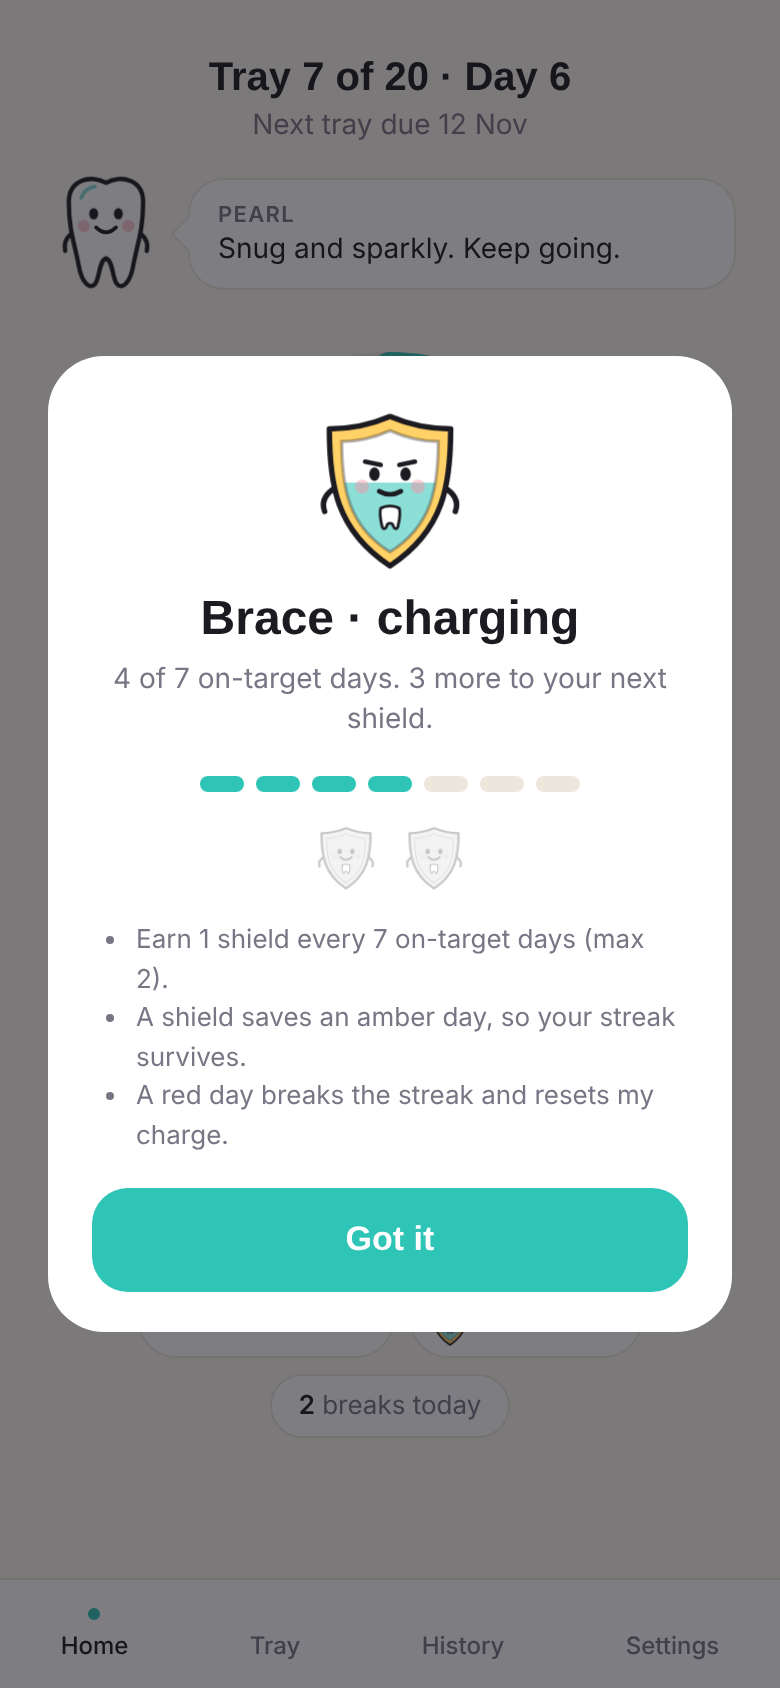
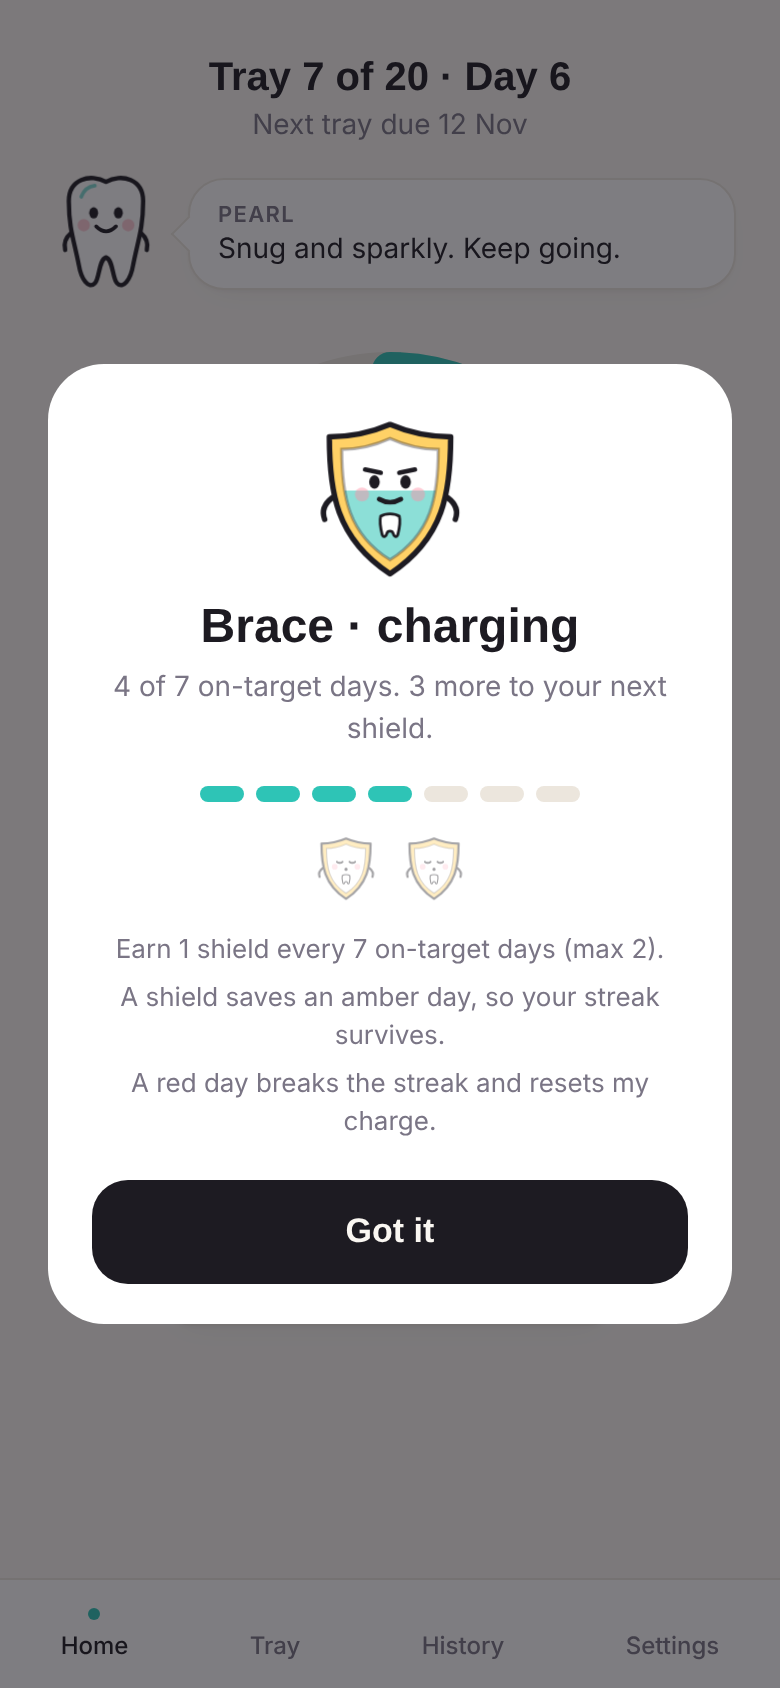
UI polish: calmer, more premium look (v1.2)
- History heatmap uses soft tints instead of solid traffic-light fills
- Home: one status pill (streak + Brace); breaks folded into the budget line
- Custom flame icon in the mascots' line style replaces the emoji
- Smaller hero button with a soft halo instead of a heavy glow
- Mint reserved for progress; primary buttons use ink, grade bars neutral
- Dark mode: borderless cards with subtle elevation; more breathing room
- Brace sheet: centred rules, outlined empty shield slots
- README screenshots refreshed

Claude-Session: https://claude.ai/code/session_01UyWaGi1AUHmmiz4DfKTwSH

diff --git a/src/Index.html b/src/Index.html
@@ -11,9 +11,17 @@
     --bg:#FAF7F2; --card:#FFFFFF; --ink:#1D1B22; --muted:#7A7585; --line:#ECE6DD; --soft:#F3EEE6;
     --mint:#2EC4B6; --coral:#FF6B6B; --sunny:#FFD166; --green:#3DDC97; --amber:#FFB547; --red:#FF6B6B;
     --accent:var(--mint);
+    --h-green:rgba(61,220,151,.26); --h-green-ink:#17895a;
+    --h-amber:rgba(255,181,71,.28); --h-amber-ink:#a86a06;
+    --h-red:rgba(255,107,107,.20);  --h-red-ink:#c94444;
+    --edge:var(--line); --lift:0 1px 2px rgba(29,27,34,.04), 0 6px 18px -12px rgba(29,27,34,.12);
   }
   @media (prefers-color-scheme:dark){
-    :root{ --bg:#14121A; --card:#1F1C27; --ink:#F4F1EC; --muted:#9C97A8; --line:#2C2836; --soft:#26222F; }
+    :root{ --bg:#14121A; --card:#1E1B26; --ink:#F4F1EC; --muted:#9C97A8; --line:#2C2836; --soft:#26222F;
+           --h-green:rgba(61,220,151,.20); --h-green-ink:#86e8bd;
+           --h-amber:rgba(255,181,71,.24); --h-amber-ink:#ffd59a;
+           --h-red:rgba(255,107,107,.22);  --h-red-ink:#ffa8a8;
+           --edge:transparent; --lift:0 1px 0 rgba(255,255,255,.03) inset; }
   }
   body.out{ --accent:var(--coral); }
   *{ box-sizing:border-box; margin:0; padding:0; -webkit-tap-highlight-color:transparent; }
@@ -36,20 +44,29 @@
   .prog{ stroke:var(--accent); transition:stroke-dashoffset .9s cubic-bezier(.2,.8,.2,1), stroke .3s; }
   .ring-center{ position:absolute; inset:0; display:flex; flex-direction:column; align-items:center; justify-content:center; text-align:center; padding:0 28px; }
   .big{ font-size:40px; font-weight:600; letter-spacing:-.5px; line-height:1.1; white-space:nowrap; }
-  .pill{ display:block; width:fit-content; margin:10px auto 0; padding:10px 18px; border-radius:999px;
-         background:var(--card); border:1px solid var(--line); font-weight:500; font-size:14px; transition:all .3s; }
+  .pill{ display:block; width:fit-content; margin:10px auto 0; padding:9px 18px; border-radius:999px;
+         background:var(--card); border:1px solid var(--edge); box-shadow:var(--lift); font-weight:500; font-size:14px; transition:all .3s; }
+  .pill .dim{ color:var(--muted); font-weight:400; }
+  .pill.over .dim{ color:rgba(255,255,255,.8); }
   .pill.over{ color:#fff; background:var(--red); border-color:transparent; }
-  .btn-wrap{ display:flex; justify-content:center; margin:28px 0 18px; }
-  .hero{ width:136px; height:136px; border-radius:50%; border:none; background:var(--accent); color:#fff;
-         font-family:Outfit,sans-serif; font-size:20px; font-weight:600; cursor:pointer;
-         box-shadow:0 12px 30px -10px var(--accent); transition:transform .15s ease-out, background .3s; }
+  .btn-wrap{ display:flex; justify-content:center; margin:30px 0 22px; }
+  .hero{ width:120px; height:120px; border-radius:50%; border:none; background:var(--accent); color:#fff;
+         font-family:Outfit,sans-serif; font-size:18px; font-weight:600; letter-spacing:.1px; cursor:pointer;
+         box-shadow:0 0 0 8px color-mix(in srgb, var(--accent) 14%, transparent), 0 10px 22px -14px var(--accent);
+         transition:transform .15s ease-out, background .3s, box-shadow .3s; }
   .hero:active{ transform:scale(.96); }
   .hero:disabled{ opacity:.85; }
-  body.out .hero{ animation:pulse 1.8s ease-in-out infinite; }
-  @keyframes pulse{ 0%,100%{ box-shadow:0 0 0 0 rgba(255,107,107,.45) } 50%{ box-shadow:0 0 0 18px rgba(255,107,107,0) } }
-  .chips{ display:flex; gap:8px; justify-content:center; flex-wrap:wrap; }
-  .chip{ padding:7px 13px; border-radius:999px; background:var(--card); border:1px solid var(--line); font-size:13px; color:var(--muted); }
+  body.out .hero{ animation:pulse 2.4s ease-in-out infinite; }
+  @keyframes pulse{ 0%,100%{ box-shadow:0 0 0 8px rgba(255,107,107,.14) } 50%{ box-shadow:0 0 0 14px rgba(255,107,107,.06) } }
+  .chips{ display:flex; gap:8px; justify-content:center; }
+  .chip{ padding:7px 13px; border-radius:999px; background:var(--card); border:1px solid var(--edge); box-shadow:var(--lift); font-size:13px; color:var(--muted); }
   .chip b{ color:var(--ink); font-weight:600; }
+  .status{ display:inline-flex; align-items:center; gap:7px; padding:5px 14px 5px 10px; cursor:pointer; white-space:nowrap; }
+  .status .ico{ display:inline-flex; align-items:center; gap:5px; }
+  .status svg{ flex:none; }
+  .status .flame{ width:15px; height:18px; }
+  .status .sep{ width:1px; height:16px; background:var(--line); margin:0 2px; }
+  .status .brace-ico svg{ width:20px; height:22px; }
   .sync{ text-align:center; font-size:12px; color:var(--muted); margin-top:12px; min-height:16px; }
 
   /* Mascot */
@@ -67,10 +84,10 @@
   @keyframes float{ 0%{ opacity:0; transform:translate(0,4px) } 40%{ opacity:1 } 100%{ opacity:0; transform:translate(6px,-10px) } }
   .buddy{ display:flex; align-items:center; gap:10px; margin:10px 4px 0; min-height:72px; }
   .buddy .pearl{ width:62px; height:68px; flex:none; }
-  .bubble{ position:relative; background:var(--card); border:1px solid var(--line); border-radius:18px; padding:10px 14px;
+  .bubble{ position:relative; background:var(--card); border:1px solid var(--edge); box-shadow:var(--lift); border-radius:18px; padding:10px 14px;
            font-size:14px; line-height:1.35; flex:1; animation:fade .3s ease-out; }
   .bubble::before{ content:''; position:absolute; left:-7px; top:50%; width:12px; height:12px; background:var(--card);
-           border-left:1px solid var(--line); border-bottom:1px solid var(--line); transform:translateY(-50%) rotate(45deg); }
+           border-left:1px solid var(--edge); border-bottom:1px solid var(--edge); transform:translateY(-50%) rotate(45deg); }
   .bubble b{ display:block; font:600 11px Inter,sans-serif; color:var(--muted); text-transform:uppercase; letter-spacing:.06em; margin-bottom:2px; }
   .buddy.hop .pearl .body{ animation:bounce .9s cubic-bezier(.3,1.6,.5,1) 2; }
 
@@ -82,15 +99,14 @@
   .brace.blocking .body{ animation:block .9s cubic-bezier(.3,1.6,.5,1) infinite; }
   @keyframes block{ 0%,100%{ transform:translateY(0) scale(1) } 35%{ transform:translateY(-4px) scale(1.06) } }
   .brace.resting .body{ animation:bob 4s ease-in-out infinite; }
-  .brace-chip{ display:inline-flex; align-items:center; gap:6px; cursor:pointer; padding:4px 13px 4px 6px; }
-  .brace-chip svg{ width:26px; height:28px; flex:none; }
   .pips{ display:flex; gap:6px; justify-content:center; margin:2px 0 14px; }
   .pips i{ width:22px; height:8px; border-radius:99px; background:var(--line); }
   .pips i.on{ background:var(--mint); }
   .slots{ display:flex; gap:10px; justify-content:center; margin-bottom:14px; }
   .slots svg{ width:34px; height:37px; }
-  .slots .off{ opacity:.25; filter:grayscale(1); }
-  .rules{ text-align:left; font-size:13px; color:var(--muted); line-height:1.5; margin:0 4px 16px; padding-left:18px; }
+  .slots .off{ opacity:.4; }
+  .rules{ list-style:none; font-size:13px; color:var(--muted); line-height:1.5; margin:0 6px 18px; padding:0; }
+  .rules li + li{ margin-top:4px; }
   .cell .sh svg{ width:16px; height:17px; display:block; }
   .legend span{ white-space:nowrap; }
   .legend .mini svg{ display:inline-block; width:13px; height:14px; vertical-align:-2px; margin-right:4px; }
@@ -109,7 +125,7 @@
   .empty-pearl .pearl{ width:44px; height:48px; flex:none; }
 
   /* Cards */
-  .card{ background:var(--card); border:1px solid var(--line); border-radius:24px; padding:18px; margin-bottom:14px; }
+  .card{ background:var(--card); border:1px solid var(--edge); box-shadow:var(--lift); border-radius:24px; padding:20px; margin-bottom:16px; }
   .card h2{ font-size:15px; font-weight:600; color:var(--muted); margin-bottom:12px; display:flex; justify-content:space-between; align-items:center; }
   .card h2 small{ font:500 12px Inter,sans-serif; }
 
@@ -121,7 +137,7 @@
   .row{ display:flex; justify-content:space-between; font-size:14px; margin-top:10px; color:var(--muted); }
   .row b{ color:var(--ink); font-weight:600; }
   .warn{ background:rgba(255,181,71,.16); border-radius:16px; padding:12px 14px; font-size:13px; margin-bottom:12px; display:none; }
-  .primary{ width:100%; padding:16px; border:none; border-radius:18px; background:var(--mint); color:#fff;
+  .primary{ width:100%; padding:16px; border:none; border-radius:18px; background:var(--ink); color:var(--bg);
             font-family:Outfit,sans-serif; font-size:17px; font-weight:600; cursor:pointer; transition:transform .15s; }
   .primary:active{ transform:scale(.98); }
   .primary:disabled{ opacity:.45; }
@@ -130,18 +146,20 @@
 
   /* History */
   .tiles{ display:grid; grid-template-columns:repeat(3,1fr); gap:10px; margin-bottom:14px; }
-  .tile{ background:var(--card); border:1px solid var(--line); border-radius:20px; padding:14px 12px; }
+  .tile{ background:var(--card); border:1px solid var(--edge); box-shadow:var(--lift); border-radius:20px; padding:14px 12px; }
   .tile .v{ font-family:Outfit,sans-serif; font-size:24px; font-weight:700; line-height:1.1; }
   .tile .v small{ font-size:14px; font-weight:500; color:var(--muted); }
   .tile .l{ font-size:12px; color:var(--muted); margin-top:4px; line-height:1.3; }
   .heat{ display:grid; grid-template-columns:repeat(7,1fr); gap:6px; }
   .heat .wd{ font-size:11px; color:var(--muted); text-align:center; padding-bottom:2px; }
-  .cell{ aspect-ratio:1; border:none; border-radius:10px; background:var(--soft); position:relative; cursor:pointer;
-         font-size:11px; font-weight:500; color:rgba(29,27,34,.65); animation:pop .35s cubic-bezier(.2,1.4,.4,1) both; }
-  .cell.s-green{ background:var(--green); } .cell.s-amber{ background:var(--amber); } .cell.s-red{ background:var(--red); color:#fff; }
-  .cell.s-none{ color:var(--muted); cursor:default; }
-  .cell.s-today{ background:transparent; box-shadow:inset 0 0 0 2px var(--mint); color:var(--ink); }
-  .cell.sel{ outline:2.5px solid var(--ink); outline-offset:2px; }
+  .cell{ aspect-ratio:1; border:none; border-radius:11px; background:var(--soft); position:relative; cursor:pointer;
+         font-size:11px; font-weight:600; color:var(--muted); animation:pop .35s cubic-bezier(.2,1.4,.4,1) both; }
+  .cell.s-green{ background:var(--h-green); color:var(--h-green-ink); }
+  .cell.s-amber{ background:var(--h-amber); color:var(--h-amber-ink); }
+  .cell.s-red{ background:var(--h-red); color:var(--h-red-ink); }
+  .cell.s-none{ background:transparent; color:var(--muted); opacity:.5; cursor:default; }
+  .cell.s-today{ background:transparent; box-shadow:inset 0 0 0 1.5px var(--mint); color:var(--ink); }
+  .cell.sel{ outline:1.5px solid var(--ink); outline-offset:2px; }
   .cell .sh{ position:absolute; top:-7px; right:-6px; }
   .legend{ display:flex; gap:12px; flex-wrap:wrap; margin-top:12px; font-size:12px; color:var(--muted); }
   .legend i{ display:inline-block; width:10px; height:10px; border-radius:3px; margin-right:5px; vertical-align:-1px; }
@@ -155,7 +173,7 @@
   .empty{ color:var(--muted); font-size:13px; padding:4px 0 10px; }
   .tr{ display:grid; grid-template-columns:56px 1fr 46px 30px; gap:10px; align-items:center; margin-bottom:10px; font-size:14px; }
   .tr .tb{ height:10px; border-radius:99px; background:var(--line); position:relative; overflow:visible; }
-  .tr .tb i{ display:block; height:100%; border-radius:99px; background:var(--mint); transition:width .9s cubic-bezier(.2,.8,.2,1); }
+  .tr .tb i{ display:block; height:100%; border-radius:99px; background:var(--muted); opacity:.55; transition:width .9s cubic-bezier(.2,.8,.2,1); }
   .tr .tb u{ position:absolute; top:-4px; bottom:-4px; width:2px; background:var(--ink); opacity:.35; border-radius:2px; }
   .tr .n{ color:var(--muted); } .tr .n b{ color:var(--ink); }
   .grade{ display:inline-flex; align-items:center; justify-content:center; width:28px; height:28px; border-radius:9px;
@@ -185,7 +203,7 @@
   .field input[type=date]{ width:150px; font-size:15px; }
 
   /* Nav */
-  nav{ position:fixed; bottom:0; left:0; right:0; background:var(--card); border-top:1px solid var(--line);
+  nav{ position:fixed; bottom:0; left:0; right:0; background:var(--card); border-top:1px solid var(--edge);
        display:flex; justify-content:space-around; padding:10px 0 calc(10px + env(safe-area-inset-bottom)); z-index:5; }
   nav button{ background:none; border:none; font:500 12px Inter,sans-serif; color:var(--muted);
               display:flex; flex-direction:column; align-items:center; gap:5px; padding:4px 14px; cursor:pointer; }
@@ -252,7 +270,7 @@
     </div>
     <span class="pill num" id="budget">&nbsp;</span>
     <div class="btn-wrap"><button class="hero" id="hero" disabled>…</button></div>
-    <div class="chips"><span class="chip" id="streak"></span><button class="chip brace-chip" id="brace-chip" aria-label="Shields"></button><span class="chip" id="breaks"></span></div>
+    <div class="chips"><button class="chip status" id="status" aria-label="Streak and shields"><span class="ico" id="streak"></span><span class="sep"></span><span class="ico brace-ico" id="brace-chip"></span></button></div>
     <div class="sync" id="sync"></div>
   </section>
 
@@ -282,9 +300,9 @@
       <h2>Last 5 weeks <small id="shield-note"></small></h2>
       <div class="heat" id="heat"></div>
       <div class="legend">
-        <span><i style="background:var(--green)"></i>On target</span>
-        <span><i style="background:var(--amber)"></i>Close</span>
-        <span><i style="background:var(--red)"></i>Under</span>
+        <span><i style="background:var(--h-green); box-shadow:inset 0 0 0 1px var(--h-green-ink)"></i>On target</span>
+        <span><i style="background:var(--h-amber); box-shadow:inset 0 0 0 1px var(--h-amber-ink)"></i>Close</span>
+        <span><i style="background:var(--h-red); box-shadow:inset 0 0 0 1px var(--h-red-ink)"></i>Under</span>
         <span class="mini" id="legend-brace">Shield used</span>
       </div>
     </div>
@@ -464,17 +482,17 @@
       $('big-sub').textContent = `of ${S.target}h worn today`;
     }
     const b = $('budget');
-    if (L.budget >= 0) { b.textContent = `${hm(L.budget)} break budget left`; b.classList.remove('over'); }
-    else { b.textContent = `Over budget by ${hm(-L.budget)}`; b.classList.add('over'); }
+    const brk = ` <span class="dim">· ${S.breaks} break${S.breaks === 1 ? '' : 's'}</span>`;
+    if (L.budget >= 0) { b.innerHTML = `${hm(L.budget)} break budget left` + brk; b.classList.remove('over'); }
+    else { b.innerHTML = `Over budget by ${hm(-L.budget)}` + brk; b.classList.add('over'); }
 
     $('hero').disabled = busy;
     $('hero').textContent = L.isOut ? 'Put back in' : 'Take out';
 
     const closed = L.worn >= S.target * 60;
     const streak = S.streak + (closed ? 1 : 0);
-    $('streak').innerHTML = streak ? `🔥 <b>${streak}</b>-day streak` : 'Streak starts today';
+    $('streak').innerHTML = FLAME + (streak ? `<span><b>${streak}</b>-day streak</span>` : '<span>Streak starts today</span>');
     braceChip(closed);
-    $('breaks').innerHTML = `<b>${S.breaks}</b> break${S.breaks === 1 ? '' : 's'} today`;
     if (closed && !celebrated) celebrateRing();
 
     $('t-no').innerHTML = `${t.no}<span> / ${t.total}</span>`;
@@ -657,6 +675,8 @@
       </g>${glint}</svg>`;
   }
   const MINI_BRACE = brace('blocking', 1);
+  /** streak flame, drawn in Pearl's line style (replaces the 🔥 emoji) */
+  const FLAME = `<svg class="flame" viewBox="0 0 24 30" aria-hidden="true"><path d="M12 2 C14 8 20 11 20 19 C20 25 16.5 28 12 28 C7.5 28 4 25 4 19.5 C4 15 6.5 12.5 8 10.5 C8.5 13 9.5 14.5 11 15 C10.5 10 11 6 12 2 Z" fill="#FF8A5B" stroke="${INK}" stroke-width="2.2" stroke-linejoin="round"/><path d="M12 15 C13.5 18 16 19.5 16 22.5 C16 25 14.2 26.5 12 26.5 C9.8 26.5 8 25 8 22.8 C8 20.5 10 19 12 15 Z" fill="#FFD166"/></svg>`;
 
   /** progress including today once the ring has closed (today becomes an on-target day) */
   function braceNow(closedToday) {
@@ -676,15 +696,15 @@
     if (key === lastBraceKey) return;
     lastBraceKey = key;
     $('brace-chip').innerHTML = brace(n.mood, n.fill) +
-      (n.shields >= n.max ? `<span><b>${n.max}</b> · maxed</span>`
+      (n.shields >= n.max ? `<span><b>${n.max}</b> maxed</span>`
         : n.shields ? `<span><b>${n.shields}</b> · next in ${n.left}d</span>`
-        : `<span>Next in <b>${n.left}</b>d</span>`);
+        : `<span>next in <b>${n.left}</b>d</span>`);
   }
 
-  $('brace-chip').onclick = () => {
+  $('status').onclick = () => {
     const n = braceNow(live() && live().worn >= S.target * 60);
     const pips = '<div class="pips">' + Array.from({ length: n.every }, (_, i) => `<i class="${i < (n.shields >= n.max ? n.every : n.progress) ? 'on' : ''}"></i>`).join('') + '</div>';
-    const slots = '<div class="slots">' + Array.from({ length: n.max }, (_, i) => `<span class="${i < n.shields ? '' : 'off'}">${brace('ready', 1)}</span>`).join('') + '</div>';
+    const slots = '<div class="slots">' + Array.from({ length: n.max }, (_, i) => i < n.shields ? `<span>${brace('ready', 1)}</span>` : `<span class="off">${brace('resting', 0)}</span>`).join('') + '</div>';
     const sub = n.shields >= n.max ? "Fully stocked. I've got your back twice over."
       : n.progress === 0 && !n.shields ? 'Fresh start. Hit your target today and I start charging.'
       : `${n.progress} of ${n.every} on-target days. ${n.left} more to your next shield.`;
